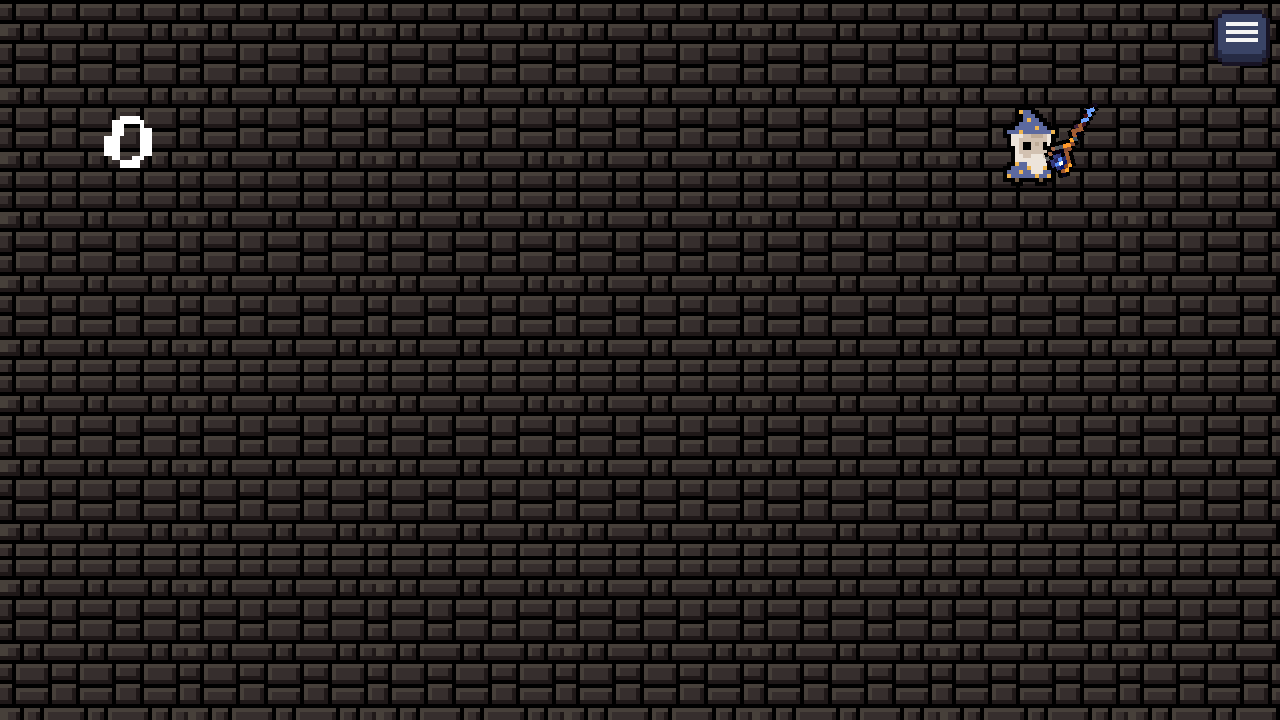
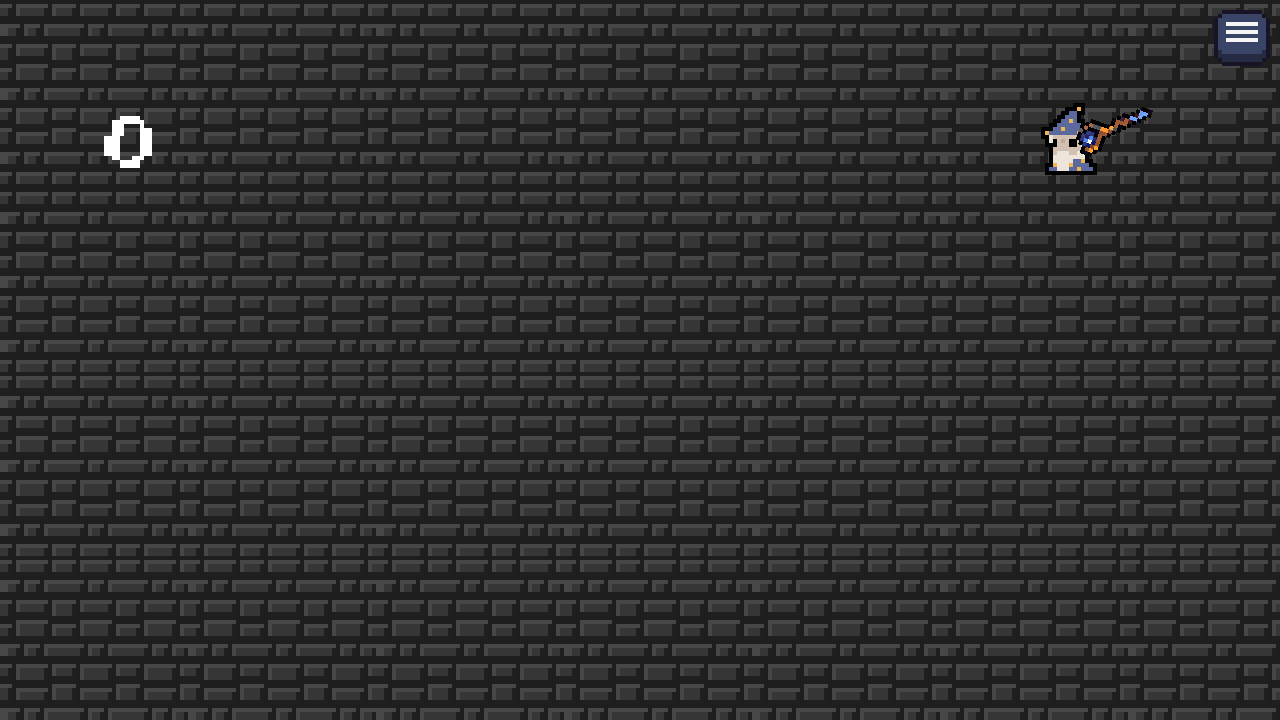
Fixed player wall collision glitch

diff --git a/assets/scripts/level_renderer.py b/assets/scripts/level_renderer.py
@@ -10,7 +10,9 @@ from assets.scripts.firebox import *
 from assets.scripts.bullet_manager import *
 class LevelRenderer:
     def __init__(self, levels : tuple, tilesheet : pygame.Surface, tilesheet_size : tuple, spike_images : tuple, colors : tuple, background : pygame.Surface, coin_image):
-        background.set_colorkey([255, 255, 255])
+        final_color = [30, 30, 30]
+        swap_color(background, [255, 255, 255], final_color)
+        swap_color(background, [0, 0, 0], final_color)
         tilesheet.set_colorkey([255, 255, 255])
         self.spikes = []
         if not web:
@@ -239,10 +241,10 @@ class LevelRenderer:
                             if tilemap[self.num_row][self.num_col-1] == -1 or tilemap[self.num_row][self.num_col-1] in self.decorative_tiles:
                                 if not tilemap[self.num_row-1][self.num_col] == -1 and not(tilemap[self.num_row-1][self.num_col] in self.decorative_tiles):
                                     self.side_rects.append([pygame.Rect(self.x*self.tile_size[0]+10, (self.y*self.tile_size[1]), 1, (self.tile_size[1])), -1])
-                                    #pygame.draw.rect(win, (255, 0, 0), pygame.Rect(self.x*self.tile_size[0]+10, (self.y*self.tile_size[1]), 1, (self.tile_size[1])))
+                                    #pygame.draw.rect(win, (255, 0, 0), pygame.Rect(self.x*self.tile_size[0], (self.y*self.tile_size[1]), 1, (self.tile_size[1])))
                                 else:
-                                    self.side_rects.append([pygame.Rect(self.x*self.tile_size[0]+10, (self.y*self.tile_size[1]+15), 1, (self.tile_size[1]-15)), -1])
-                                    #pygame.draw.rect(win, (255, 0, 0), pygame.Rect(self.x*self.tile_size[0]+10, (self.y*self.tile_size[1]+15), 1, (self.tile_size[1]-15)))
+                                    self.side_rects.append([pygame.Rect(self.x*self.tile_size[0], (self.y*self.tile_size[1]+15), 1, (self.tile_size[1]-15)), -1])
+                                    #pygame.draw.rect(win, (255, 0, 0), pygame.Rect(self.x*self.tile_size[0], (self.y*self.tile_size[1]+15), 1, (self.tile_size[1]-15)))
                             if self.num_col+1 < len(tilemap[self.num_row]):
                                 if tilemap[self.num_row][self.num_col+1] == -1 or tilemap[self.num_row][self.num_col+1] in self.decorative_tiles:
                                     if not tilemap[self.num_row-1][self.num_col] == -1 and not(tilemap[self.num_row-1][self.num_col] in self.decorative_tiles):
@@ -259,7 +261,7 @@ class LevelRenderer:
                             if tilemap[self.num_row][self.num_col-1] == -1:
                                 if not tilemap[self.num_row-1][self.num_col] == -1:
                                     self.side_rects.append([pygame.Rect(self.x*self.tile_size[0]+10, (self.y*self.tile_size[1]+(0-int(self.init_render_pos[self.level][1]))), 1, 24), -1])
-                                    #pygame.draw.rect(win, (255, 0, 0), pygame.Rect(self.x*self.tile_size[0]+10, (self.y*self.tile_size[1]+(0-int(renderer.init_render_pos)[renderer.level][1])), 1, 24))
+                                    #pygame.draw.rect(win, (255, 0, 0), pygame.Rect(self.x*self.tile_size[0]+10, (self.y*self.tile_size[1]+(0-int(self.init_render_pos[self.level][1]))), 1, 24))
                                 else:
                                     self.side_rects.append([pygame.Rect(self.x*self.tile_size[0]+10, (self.y*self.tile_size[1]+15), 1, (24-7)), -1])
                                     #pygame.draw.rect(win, (255, 0, 0), pygame.Rect(self.x*self.tile_size[0]+10, (self.y*self.tile_size[1]+15), 1, (24-7)))
@@ -267,7 +269,7 @@ class LevelRenderer:
                                 if tilemap[self.num_row][self.num_col+1] == -1:
                                     if not tilemap[self.num_row-1][self.num_col] == -1:
                                         self.side_rects.append([pygame.Rect((self.x+1)*self.tile_size[0]+6, (self.y*self.tile_size[1]+(0-int(self.init_render_pos[self.level][1]))), 1, (24)), 1])
-                                        #pygame.draw.rect(win, (255, 0, 0), pygame.Rect((self.x+1)*self.tile_size[0]+6, (self.y*self.tile_size[1]+(0-int(renderer.init_render_pos)[renderer.level][1])), 1, (24)))
+                                        #pygame.draw.rect(win, (255, 0, 0), pygame.Rect((self.x+1)*self.tile_size[0]+6, (self.y*self.tile_size[1]+(0-int(self.init_render_pos[self.level][1]))), 1, (24)))
                                     else:
                                         self.side_rects.append([pygame.Rect((self.x+1)*self.tile_size[0]+10, (self.y*self.tile_size[1]+15), 1, (24-15)), 1])
                                         #pygame.draw.rect(win, (255, 0, 0), pygame.Rect((self.x+1)*self.tile_size[0]+10, (self.y*self.tile_size[1]+15), 1, (24-15)))
